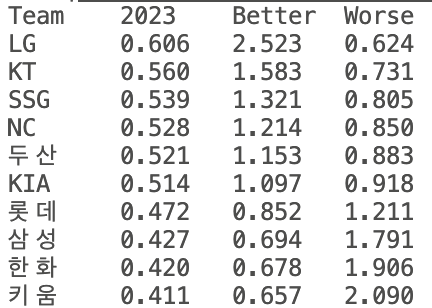
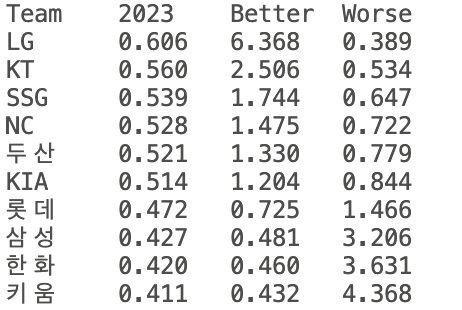
weight change

Changed region(s): [[0.1806, 0.0, 1.0, 0.9935], [0.0, 0.0, 0.1505, 0.9935]]

diff --git a/weight.py b/weight.py
@@ -56,8 +56,8 @@ sd = [np.sqrt(mse * (1 + 1/len(X) + (x - np.mean(X))**2 / Sxx)) for x in real_da
 Z = [(real_data[i][0] - predicted[i]) / sd[i] for i in range(len(real_data))]
 percentile = [1 - stats.norm.cdf(z) for z in Z]
 
-better_weight = [0.5/percentile[i] for i in range(len(real_data))]
-worse_weight = [0.5/(1-percentile[i]) for i in range(len(real_data))]
+better_weight = [(0.5/percentile[i])**2 for i in range(len(real_data))]
+worse_weight = [(0.5/(1-percentile[i]))**2 for i in range(len(real_data))]
 
 team_names = ["LG", "KT", "SSG", "NC", "두산", "KIA", "롯데", "삼성", "한화", "키움"]
 
